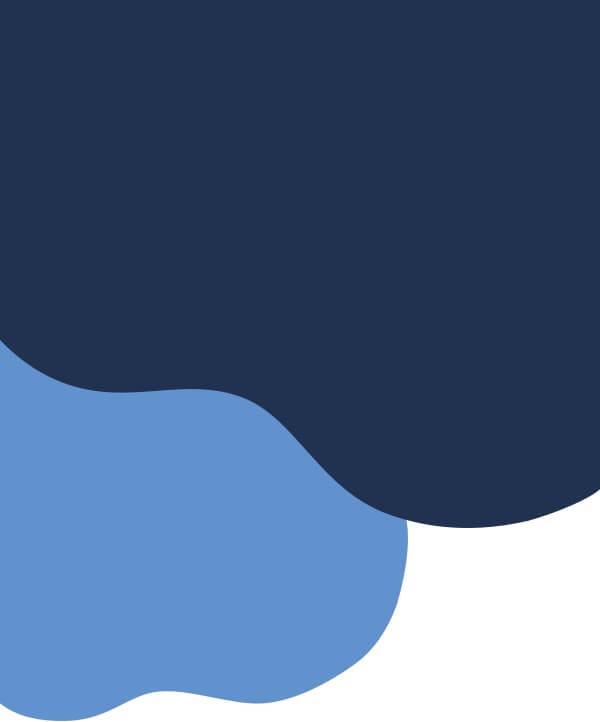
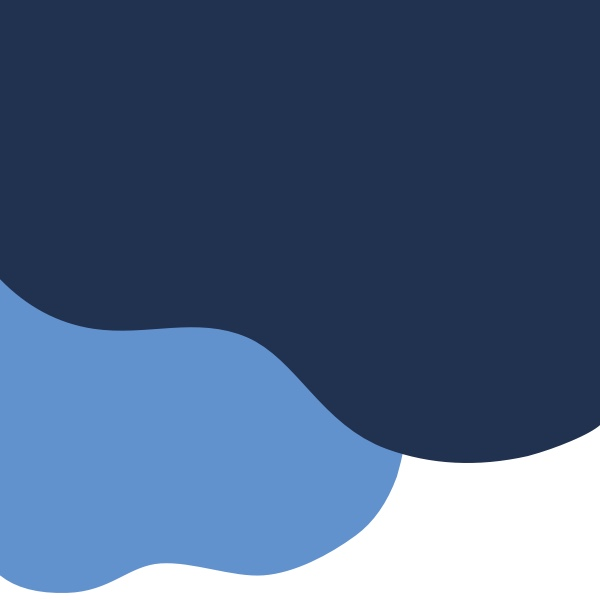
Make more tweaks to the Cash Stash project page.

Changed region(s): [[0.0, 0.51, 1.0, 1.0]]

diff --git a/cash_stash_project.html b/cash_stash_project.html
@@ -61,10 +61,10 @@
                     <img src="img/cash_stash/edit_saving_goal_screen.png" alt="A picture of the savings goal edit screen."/>
                 </div>
             </div>
-            <div>
+            <div id="intro_content_footnote">
                 <p>Designed as part of the CareerFoundry UI Design course.</p>
             </div>
-            <div>
+            <div id="intro_content_description">
                 <h2>Why Use Cash Stash?</h2>
                 <ul>
                     <li>Set financial goals and track your progress using easy to read metrics and charts.</li>
@@ -87,8 +87,8 @@
             </div>
         </div>
         <div id="bottom_section" class="project_content">
-            <img src="img/cash_stash/middle_backdrop@2x.jpg"/>
-            <img src="img/cash_stash/bottom_backdrop@2x.jpg"/>
+            <img src="img/cash_stash/Middle Backdrop@2x.jpg"/>
+            <img src="img/cash_stash/Bottom Backdrop@2x.jpg"/>
             <div id="style_guide" class="content_overlay">
                 <h3 class="sans_serif">Style Guide</h3>
                 <div id="style_guide_grid">

diff --git a/css/cash_stash_project.css b/css/cash_stash_project.css
@@ -96,7 +96,7 @@ h6.sans_serif {
 }
 
 #intro > img {
-    margin-bottom: 4rem;
+    margin-bottom: 16rem;
     width: 100%;
 }
 
@@ -122,11 +122,38 @@ h6.sans_serif {
     gap: 2rem;
 }
 
+#intro_content_footnote {
+    position: absolute;
+    top: 52rem;
+    left: 8rem;
+}
+
+#intro_content_footnote p {
+    font-size: 24px;
+    color: #C5DFFF;
+}
+
+#intro_content_description {
+    position: absolute;
+    top: 72rem;
+    left: 8rem;
+    max-width: 36rem;
+}
+
+#intro_content_description h2, #intro_content_description li {
+    color: #ffffff;
+}
+
+#intro_content_description li {
+    font-size: 24px;
+    padding: 0.5rem 0;
+}
+
 #middle_section {
     text-align: center;
 }
 
-#middle_section h1 {
+#middle_section h2 {
     color: #213150;
     margin: 6rem 0 0 0;
 }
@@ -167,10 +194,10 @@ h6.sans_serif {
 
 #bottom_section > div {
     position: relative;
-    top: -132rem;
+    top: -110rem;
 }
 
-#bottom_section img {
+#bottom_section > img {
     margin: 0;
     width: 100%;
 }
